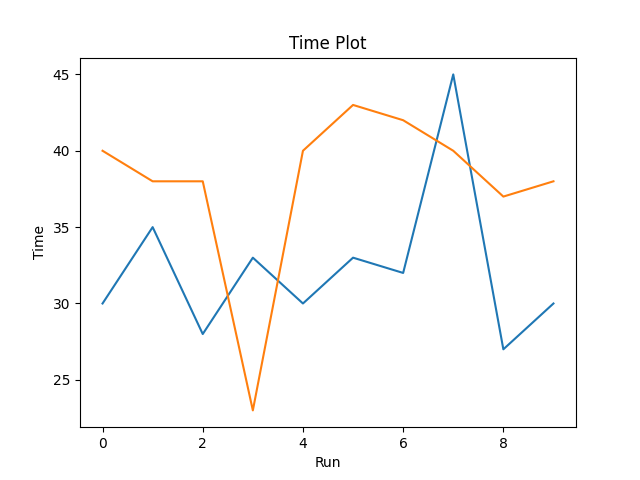
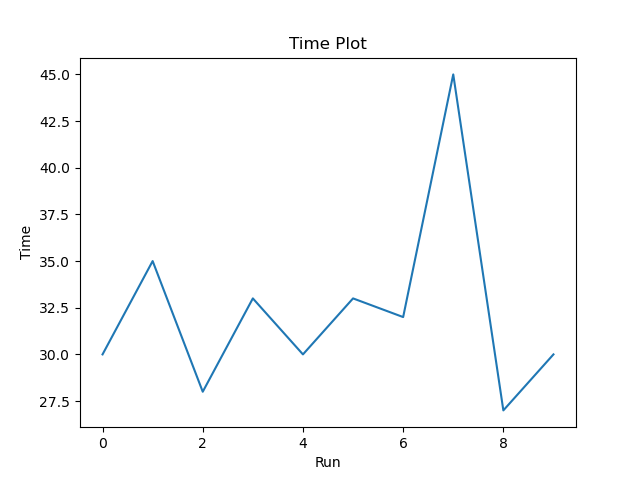
GUI MVP

diff --git a/app/templates/index.html b/app/templates/index.html
@@ -1,0 +1,53 @@
+<!DOCTYPE html>
+<html>
+<head>
+  <title>SCALO Simulator</title>
+  <link rel="stylesheet" href="{{ url_for('static', filename='css/theme.css') }}">
+</head>
+<body>
+  <h1>SCALO Simulator</h1>
+  <div class="simulate">
+      <form id="simulateForm" action="/output" method="POST">
+        <input placeholder="Pipeline" required="" type="text" name="pipeline"/>
+        <input placeholder="Number of runs" required="" type="number" name="numberRuns"/>
+        <div>
+          <h3>Visualization Options</h3>
+          <div>
+            <br>
+            <label for="accuracy">Accuracy</label>
+            <input type="checkbox" name="accuracy" value="accuracy" id="accuracy">
+            <br>
+
+            <label for="latency">Latency</label>
+            <input type="checkbox" name="latency" value="latency" id="latency">
+            <br>
+
+            <label for="power">Power</label>
+            <input type="checkbox" name="power" value="power" id="power">
+            <br>
+
+            <label for="custom">Custom</label>
+            <input type="checkbox" name="custom" value="custom" id="custom">
+            <br>
+
+            <div id="customPath" name="customPath" style="display: none;">
+              <label for="customPathInput">Custom Function Path</label>
+              <input type="text" id="customPathInput" name="customPathInput">
+            </div>
+          </div>
+        </div>
+        <button type="submit">SIMULATE</button>
+      </form>
+  </div>
+  <script>
+    document.getElementById("custom").addEventListener("change", function() {
+      var customPathDiv = document.getElementById("customPath");
+      if (this.checked) {
+        customPathDiv.style.display = "block";
+      } else {
+        customPathDiv.style.display = "none";
+      }
+    });
+  </script>
+</body>
+</html>

diff --git a/app/static/css/theme.css b/app/static/css/theme.css
@@ -1,0 +1,83 @@
+* {
+  margin: 0;
+  padding: 0;
+  font-family: Arial, Helvetica, sans-serif;
+}
+
+body {
+  background-color: #f6f8fb;
+  background-size: cover;
+  width: 100vw;
+  height: 100vh;
+  display: grid;
+  row-gap: -20em;
+  align-items: center;
+  justify-items: center;
+}
+
+
+h1 {
+  color: #00356b;
+  font-weight: bold;
+  font-size: 600%;
+  -webkit-text-stroke-width: 3px;
+  -webkit-text-stroke-color: black;
+}
+
+.simulate {
+  background: #e1eefd;
+  padding: 50px 100px;
+  border: 2px solid black;
+  box-shadow: 15px 15px 1px #00356b, 15px 15px 1px 2px black;
+  color: grey;
+  font-family: Arial, Helvetica, sans-serif;
+}
+
+input[type="checkbox"] {
+  display: inline-block;
+}
+
+input {
+  display: block;
+  /* width: 100%; */
+  font-size: 14pt;
+  line-height: 28pt;
+  margin-bottom: 28pt;
+  border: none;
+  border-bottom: 5px solid black;
+  background: #e1eefd;
+  min-width: 250px;
+  padding-left: 5px;
+  outline: none;
+  color: grey;
+}
+
+::placeholder {
+  color: grey
+}
+
+input:focus {
+  border-bottom: 5px solid #00356b;
+}
+
+button {
+  display: block;
+  margin: 0 auto;
+  line-height: 28pt;
+  padding: 0 20px;
+  background: #286dc0;
+  letter-spacing: 2px;
+  transition: 0.2s all ease-in-out;
+  outline: none;
+  border: 1px solid black;
+  box-shadow: 3px 3px 1px 1px #00356b, 3px 3px 1px 2px black;
+}
+button:hover {
+  background: black;
+  color: white;
+  border: 1px solid black;
+}
+
+::selection {
+  background: #00356b;
+}

diff --git a/app/templates/output.html b/app/templates/output.html
@@ -1,0 +1,33 @@
+<!DOCTYPE html>
+<html>
+<head>
+    <title>Simulation Results</title>
+    <link rel="stylesheet" href="{{ url_for('static', filename='css/theme.css') }}">
+</head>
+<body>
+    <h1>Simulation Results</h1>
+    <!-- TODO(btrevisa) add some kind of summary about the run-->
+
+    <h2>Visualizations</h2>
+    <div id="visualization-container">
+        {% if accuracy_selected %}
+        <img src="{{ url_for('static', filename='output_plots/accuracy_plot.png') }}" alt="Accuracy Plot">
+        <br>
+        {% endif %}
+
+        {% if latency_selected %}
+        <img src="{{ url_for('static', filename='output_plots/time_plot.png') }}" alt="Time Plot">
+        <br>
+        {% endif %}
+        
+        {% if power_selected %}
+        <img src="{{ url_for('static', filename='output_plots/power_plot.png') }}" alt="Power Plot">
+        <br>
+        {% endif %}
+
+        {% if custom_selected %}
+        <img src="{{ url_for('static', filename='output_plots/custom_plot.png') }}" alt="Custom Plot">
+        {% endif %}
+    </div>
+</body>
+</html>

diff --git a/app/app.py b/app/app.py
@@ -1,0 +1,45 @@
+from flask import Flask, render_template, request
+import os
+import visualize
+import visualize.visualize
+
+app = Flask(__name__)
+app.config['STATIC_FOLDER'] = 'static'
+
+@app.route("/")
+def index():
+    return render_template("index.html")
+
+@app.route('/output', methods=['POST'])
+def output():
+    # Get form data
+    pipeline = request.form['pipeline']
+    num_runs = int(request.form['numberRuns'])
+    accuracy_selected = False
+    latency_selected = False
+    power_selected = False
+    custom_selected = None
+
+    if 'accuracy' in request.form:
+        accuracy_selected = True
+    if 'latency' in request.form:
+        latency_selected = True
+    if 'power' in request.form:
+        power_selected = True
+    if 'custom' in request.form:
+        custom_path = request.form['customPathInput']
+        custom_selected = custom_path
+
+    # Perform simulation or processing here using the data
+    # TODO(btrevisan): connect with Shaan's logic.
+    # simulation_result = simulate(pipeline, num_runs)
+
+    # Create visualizations based on selected options
+    # visualize_filename = os.path.join('data', f"{pipeline}_{num_runs}.csv")
+    visualize_filename = "app/visualize/input_csv/dummy.csv"
+    visualize.visualize.plot_visualizations(visualize_filename, accuracy=accuracy_selected, time=latency_selected, power=power_selected, custom=custom_selected)
+   
+    return render_template('output.html', accuracy_selected=accuracy_selected, latency_selected=latency_selected, power_selected=power_selected, custom_selected=custom_selected)
+
+if __name__ == "__main__":
+    app.run(host="0.0.0.0")

diff --git a/app/visualize/visualize.py b/app/visualize/visualize.py
@@ -59,7 +59,7 @@ def plot_accuracy_visualization(df, df_comp, num_runs):
 
     # Create the plot
     plt.plot(x, y)
-    if (not df_comp.empty):
+    if (df_comp != None and not df_comp.empty):
         x_comp = df_comp.iloc[:, 0]
         y_comp = df_comp.iloc[:, 1]
         plt.plot(x_comp, y_comp, label='Comparison')
@@ -95,7 +95,7 @@ def plot_time_visualization(df, df_comp, num_runs):
 
     # Create the plot
     plt.plot(x, y)
-    if (not df_comp.empty):
+    if (df_comp != None and not df_comp.empty):
         x_comp = df_comp.iloc[:, 0]
         y_comp = df_comp.iloc[:, 2]
         plt.plot(x_comp, y_comp, label='Comparison')
@@ -131,7 +131,7 @@ def plot_power_visualization(df, df_comp, num_runs):
 
     # Create the plot
     plt.plot(x, y)
-    if (not df_comp.empty):
+    if (df_comp != None and not df_comp.empty):
         x_comp = df_comp.iloc[:, 0]
         y_comp = df_comp.iloc[:, 3]
         plt.plot(x_comp, y_comp, label='Comparison')

diff --git a/pipelines/seizure/shiao/pipeline.py b/pipelines/seizure/shiao/pipeline.py
@@ -4,7 +4,6 @@ from pipelines.parent import Pipeline
 from signals.parent import Window
 from asa import SVM, FFT, THR, LOADER
 
-
 # define the pipeline to test the fft PE
 class Shiao_Pipe(Pipeline):
 
